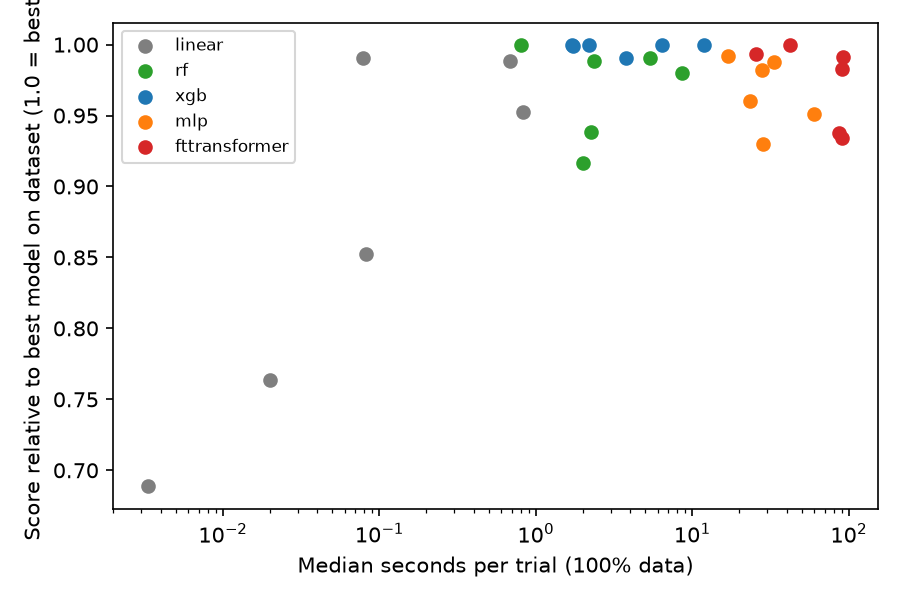
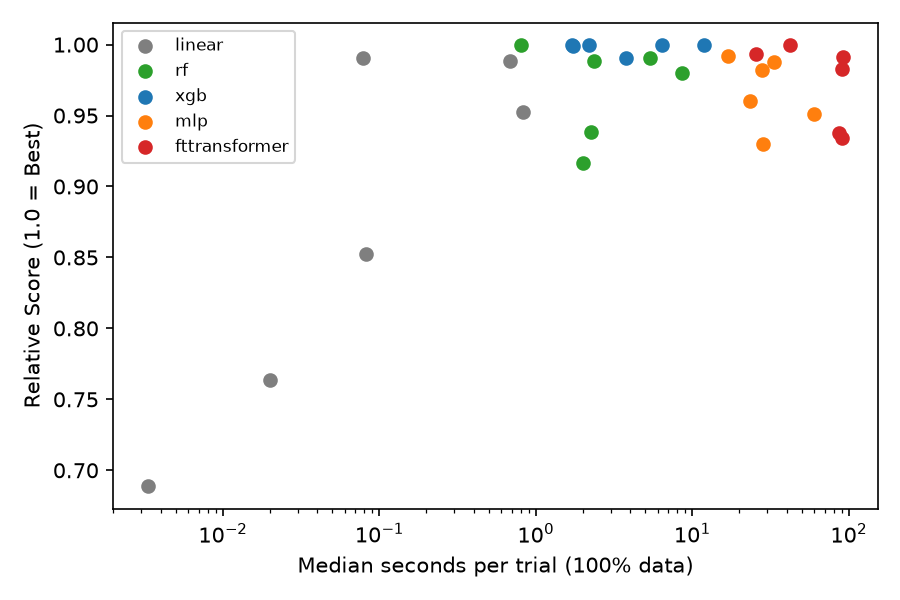
Add README and fix time-plot label

Changed region(s): [[0.0311, 0.0, 0.0622, 0.9]]

diff --git a/src/analyze.py b/src/analyze.py
@@ -132,7 +132,7 @@ def plot_time_vs_score(summary, df, tasks):
         ax.scatter(s["time"], s["relative_score"], label=m, color=COLORS[m])
     ax.set_xscale("log")
     ax.set_xlabel("Median seconds per trial (100% data)")
-    ax.set_ylabel("Score relative to best model on dataset (1.0 = best)")
+    ax.set_ylabel("Relative Score (1.0 = Best)" )
     ax.legend(fontsize=8)
     fig.tight_layout()
     fig.savefig(FIG / "time_vs_score.png", dpi=150)

diff --git a/README.md b/README.md
@@ -1,0 +1,187 @@
+# Tabular benchmark: tree ensembles vs. neural networks
+
+This repo compares five model families on six public OpenML tabular datasets under equal conditions: the same splits, the same tuning budget and the same seeds for every model. It also measures how performance changes as training data shrinks.
+
+**Headline result.** XGBoost clearly beat every other model on 3 of 6 datasets (Electricity, Kick, California). On the other 3 (Amazon, Brazil Houses, Allstate) the best models are within about 2 seed standard deviations of each other, so they are reported as ties or near-ties. No neural model clearly won on any dataset. These conclusions come from 6 datasets, 3 seeds, one split per dataset and a CPU-limited neural budget (see Limitations).
+
+## Scope of what was run
+
+| Model | Fractions of training data | Jobs |
+| --- | --- | --- |
+| Linear / logistic regression | 10%, 25%, 50%, 100% | 72 |
+| Random Forest | 10%, 25%, 50%, 100% | 72 |
+| XGBoost | 10%, 25%, 50%, 100% | 72 |
+| MLP (PyTorch) | **100% only** | 18 |
+| FT-Transformer | **100% only** | 18 |
+
+Total: 252 jobs, 7,560 tuning trials, no failed trials. The MLP and FT-Transformer were not run at 10%, 25% and 50% because of CPU compute limits, so their sample-efficiency curves are single points. The sample-efficiency results (research question 2) cover linear, Random Forest and XGBoost only.
+
+## Setup
+
+- Windows laptop, CPU only: 8 logical cores, about 16 GB RAM, no GPU.
+- PyTorch 2.14.1 (CPU build). Exact versions are in `requirements.lock.txt`; `requirements.txt` is the readable list.
+- Create an environment, then `pip install -r requirements.txt` (or the lock file).
+
+## Reproduce
+
+```
+python -m src.reproduce --fast          # 2-trial check of all five models on one small dataset (minutes)
+python -m src.reproduce --use-cached    # rebuild every table and figure from the committed results/raw
+python -m src.reproduce                 # full rerun at 100% data: all models, 6 datasets, 3 seeds
+```
+
+The full rerun takes on the order of a day on the laptop above. The tree and linear fraction runs (10%, 25%, 50%) are run separately:
+
+```
+python -m src.run --models linear rf xgb
+python -m src.run --models mlp fttransformer --fractions 1.0
+```
+
+Jobs are idempotent: a job whose result file exists is skipped, so an interrupted run resumes by rerunning the same command. Tests: `python -m pytest tests -q` (25 tests).
+
+## Datasets
+
+| Name | OpenML ID | Task | Rows used | Features | Categorical share |
+| --- | --- | --- | --- | --- | --- |
+| amazon | 4135 | Classification | 32,769 | 9 | 100% (max 7,518 categories) |
+| electricity | 151 | Classification | 45,312 | 8 | 12.5% |
+| kick | 41162 | Classification | 40,000 (stratified cap) | 30 | 53% |
+| california | 537 | Regression | 20,640 | 8 | 0% |
+| brazil_houses | 42688 | Regression | 10,685 | 8 | 50% |
+| allstate | 42571 | Regression | 10,000 (random cap) | 130 | 89% |
+
+Cleaning, identical for every model: rows with a missing target are dropped, text columns become categorical, constant columns are dropped, classification targets become 0/1. No feature engineering.
+
+Judgment calls (all configured in `configs/datasets.yaml`):
+
+- **Brazil Houses:** the four cost columns (HOA, rent, property tax, fire insurance) make up the target, so they were dropped. Rows with target above 50,000 (7 rows) were removed because one extreme row produced 96.6% of the squared error in the test set.
+- **Kick:** `BYRNO` (buyer number) and `VNZIP1` (ZIP code) were dropped as ID-like numeric columns.
+- **Kick and Allstate:** capped at 40,000 and 10,000 rows so FT-Transformer is feasible on a CPU. The same subsample is used for every model.
+- **Electricity:** rows are time-ordered but the split is random. This was kept and is listed as a limitation.
+
+## Splits and seeds
+
+- One fixed split per dataset: 60% train, 20% validation, 20% test, split seed 12345, stratified for classification. Row indices are committed in `splits/`.
+- Subsets for 10%, 25% and 50% are drawn from the training portion only and are nested within a seed (10% inside 25% inside 50%).
+- Seeds 0, 1, 2 control the subset draw, model initialization and the random-search sampler. They do **not** change the split.
+- The test set is evaluated once per job, after the best trial is chosen on validation.
+- `src/seeding.py` fixes Python, NumPy and PyTorch randomness and enables deterministic PyTorch. Scikit-learn and XGBoost receive explicit seeds.
+
+## Preprocessing (fitted on the job's training subset only)
+
+| | Linear | Random Forest, XGBoost | MLP, FT-Transformer |
+| --- | --- | --- | --- |
+| Missing numerics | Median | Median | Median |
+| Numeric scaling | Standardize | None | Quantile transform to normal |
+| Missing categoricals | Own category | Own category | Own category |
+| Categorical encoding | One-hot (categories under 10 training rows grouped) | Ordinal, unseen = -1 | Integer index with learned embeddings, 0 = unseen |
+
+Regression targets are trained on log(1 + y). Predictions are converted back and RMSE is computed on the original scale. For every model, log-scale predictions are clipped to the training subset's target range, which prevents a single extrapolated prediction from exploding RMSE. Log-scale RMSE is also stored as a secondary metric.
+
+## Tuning
+
+30 random-search trials per model, per dataset, per fraction, per seed, scored on the validation set (ROC-AUC, or original-scale RMSE). The best trial's already-trained model is reused with no retraining, for every model. Search spaces are in `configs/search_spaces.yaml` and were frozen before the real runs.
+
+| Model | Searched |
+| --- | --- |
+| Linear | `C` 1e-4 to 100, or Ridge `alpha` 1e-3 to 1000 (log scale), L2 only |
+| Random Forest | trees 100 to 500; max depth {4, 8, 12, 16, 24, none}; min leaf 1 to 20; max features {sqrt, 0.5, 1.0} |
+| XGBoost | learning rate 0.01 to 0.3; depth 2 to 10; subsample and column subsample 0.5 to 1; min child weight 1 to 20; L1 1e-8 to 10; L2 1e-3 to 10; up to 2000 trees with early stopping (50 rounds) |
+| MLP | 1 to 4 layers; width {64, 128, 256, 512}; dropout 0 to 0.5; learning rate 1e-4 to 3e-3; weight decay 1e-6 to 1e-2; batch {128, 256, 512} |
+| FT-Transformer | 1 to 2 blocks; width {32, 64}; 4 heads; attention, feed-forward and residual dropout; learning rate 1e-4 to 3e-3; weight decay 1e-6 to 1e-3; batch {256, 512} |
+
+Neural models use AdamW, early stopping on validation loss (patience 10, maximum 100 epochs) and a per-trial wall-clock cap: 60 s for the MLP and 90 s for FT-Transformer. A capped trial keeps its best validation state and still counts as one of the 30. The FT-Transformer search space is narrower than the MLP's because of CPU limits.
+
+Neural time caps are wall-clock, so laptop sleep distorts them. Any neural job with a single trial longer than 1.3 times its cap was deleted and rerun; the final set passes that check.
+
+## Metrics
+
+- Classification: ROC-AUC (primary), accuracy (secondary; uninformative on imbalanced data such as Amazon at 94% negatives).
+- Regression: RMSE on the original scale (primary), RMSE on the log scale (secondary).
+- A model counts as a winner only if its mean beats the runner-up by more than the pooled standard deviation across seeds. Otherwise the result is a tie.
+- Training time is reported as the median seconds per trial, which a stray sleep cannot distort.
+
+## Results
+
+All numbers are test-set mean ± standard deviation over 3 seeds at 100% of training data. Classification columns are ROC-AUC (higher is better); regression columns are RMSE (lower is better). Bold = clear winner. † = within pooled std of the best.
+
+| model | amazon | electricity | kick | california | brazil_houses | allstate |
+| --- | --- | --- | --- | --- | --- | --- |
+| linear | 0.8192 ± 0.0003 | 0.8344 ± 0.0000 | 0.7572 ± 0.0002 | 71,169 ± 0 | 3,241 ± 0 | 2,108 ± 2 |
+| rf | 0.8171 ± 0.0032 | 0.9696 ± 0.0040 | 0.7509 ± 0.0019 | 53,459 ± 491 | 2,475 ± 3 † | 2,140 ± 6 |
+| xgb | 0.8188 ± 0.0064 | **0.9791 ± 0.0005** | **0.7659 ± 0.0014** | **49,007 ± 128** | 2,478 ± 35 † | 2,008 ± 11 † |
+| mlp | 0.8200 ± 0.0133 † | 0.9311 ± 0.0036 | 0.7523 ± 0.0036 | 52,689 ± 151 | 2,576 ± 24 | 2,032 ± 47 † |
+| fttransformer | 0.8268 ± 0.0037 † | 0.9149 ± 0.0021 | 0.7526 ± 0.0020 | 52,261 ± 628 | 2,491 ± 18 | 2,026 ± 2 |
+
+Linear's std of 0.0000 on Electricity and 0 on California does not mean zero uncertainty: at 100% data the training set and the deterministic linear fit are identical across seeds, and seeds never change the split. Standard deviations with 3 seeds are themselves rough.
+
+### Q1. Do tree ensembles beat neural models under an equal tuning budget?
+
+Partly. The best tree model (XGBoost or Random Forest) was clearly ahead of the best neural model on three datasets, by 7 to 19 pooled standard deviations:
+
+| Dataset | Best tree | Best neural | Gap in std | Reading |
+| --- | --- | --- | --- | --- |
+| electricity | XGBoost 0.979 | MLP 0.931 | 18.7 | Trees clearly ahead |
+| kick | XGBoost 0.766 | FT-Transformer 0.753 | 7.8 | Trees clearly ahead |
+| california | XGBoost 49,007 | FT-Transformer 52,261 | 7.2 | Trees clearly ahead |
+| allstate | XGBoost 2,008 | FT-Transformer 2,026 | 2.2 | Near-tie |
+| brazil_houses | Random Forest 2,475 | FT-Transformer 2,491 | 1.3 | Tie |
+| amazon | XGBoost 0.819 | FT-Transformer 0.827 | 1.5 | Near-tie; all five models span 0.817 to 0.827 |
+
+The linear baseline is strong. On Kick it beats Random Forest, the MLP and FT-Transformer and is 0.009 AUC below XGBoost. On Allstate it beats Random Forest.
+
+### Q2. How does performance change with training data? (linear, Random Forest, XGBoost only)
+
+- Electricity, Kick, Brazil Houses and Allstate: Random Forest and XGBoost reach 95% of their full-data score at 10% to 25% of the training data (ratio of score to full-data score, no interpolation).
+- California is the one dataset where more data keeps helping the trees: XGBoost needs 50% and Random Forest 100%.
+- Amazon: every model needs 100%, and all curves are still rising. It has one column with 7,518 categories.
+- Kick has a ranking change: linear is ahead of XGBoost at 10% and 25%, and XGBoost overtakes it near 50%.
+- Linear on Brazil Houses gets worse as data grows (RMSE about 2,960 at 10%, 3,240 at 100%). The cause was not investigated.
+- The plain 95% ratio is lenient for AUC because 0.5 is the floor. `results/tables/data_needed_95_chance_adjusted.md` gives the stricter classification version.
+- The MLP and FT-Transformer have no curve; they were run at 100% only.
+
+Learning curves are in `results/figures/curve_<dataset>.png`. Full tables are in `results/tables/`.
+
+### Q3. Which dataset properties predict the winner?
+
+| Dataset | Rows | Features | Categorical share | Result |
+| --- | --- | --- | --- | --- |
+| electricity | 45,312 | 8 | 12.5% | XGBoost |
+| kick | 40,000 | 30 | 53% | XGBoost |
+| california | 20,640 | 8 | 0% | XGBoost |
+| brazil_houses | 10,685 | 8 | 50% | Tie: Random Forest, XGBoost |
+| allstate | 10,000 | 130 | 89% | Tie: XGBoost, MLP |
+| amazon | 32,769 | 9 | 100% | Tie: all models within about 0.01 AUC |
+
+The clear tree wins are on the larger datasets (20,000 to 45,000 rows) with mostly numeric or mixed features. The near-ties are on the smallest dataset and on the two datasets dominated by categorical columns. Size and categorical share are confounded here, and six datasets are too few for a regression or a significance claim, so this is a descriptive pattern only.
+
+### Training time
+
+Median seconds per trial at 100% data: linear under 1 s; Random Forest 0.8 to 8.6 s; XGBoost 1.7 to 11.8 s; MLP 17 to 60 s; FT-Transformer 25 to 91 s. See `results/figures/time_vs_score.png`. Most FT-Transformer medians sit at the 90 s cap.
+
+## Limitations
+
+- **Six datasets** chosen for variety, not sampled at random, limit how far the conclusions generalize.
+- **The neural models were compute-limited.** Most FT-Transformer trials hit the 90 s cap, and on Electricity every MLP and FT-Transformer trial was at or near its cap. The FT-Transformer search space was narrowed, and 30 trials may under-tune it and the MLP. The tree advantage on Electricity (18.7 std) partly reflects this and the random split on time-ordered data. A GPU and a larger budget could change the neural results.
+- **The neural models ran at 100% data only**, so the sample-efficiency question is answered for linear, Random Forest and XGBoost.
+- **Three seeds** give rough variance estimates, so the tie rule is approximate.
+- **One split per dataset.** Seeds do not vary the split, so reported standard deviations understate total uncertainty.
+- **Row caps and cutoffs** (Kick 40,000, Allstate 10,000, Brazil Houses target at most 50,000) and **dropped columns** change those datasets from their public form. They apply equally to every model.
+- **Electricity** is time-ordered but split randomly, which favors models that interpolate between neighboring timestamps.
+- **Validation is used for both tuning and early stopping**, so validation scores are slightly optimistic. The test set is used once per job.
+- **Early stopping uses log-scale loss** for regression, while tuning selects on original-scale RMSE. The mismatch applies to the neural models only.
+- **The 95% measure** uses only four tested fractions and no interpolation, and it is lenient for AUC.
+- **CPU timing** is not comparable with GPU timing, and neural results depend on machine speed because the caps are wall-clock. GPU results can also differ slightly across hardware even with fixed seeds.
+
+## Repo layout
+
+```
+configs/    global.yaml, datasets.yaml, search_spaces.yaml
+src/        data.py, splits.py, preprocess.py, tune.py, run.py, analyze.py, reproduce.py, seeding.py, env_info.py
+src/models/ linear.py, rf.py, gbdt.py, mlp.py, fttransformer.py, nn_train.py
+splits/     committed row indices, one JSON per dataset
+results/    raw/ (one JSON per job), tables/, figures/
+tests/      25 tests
+```
+
+Each result file stores test and validation metrics, best hyperparameters, all 30 trial logs, timing, library versions, the git commit and a hash of the three config files.
